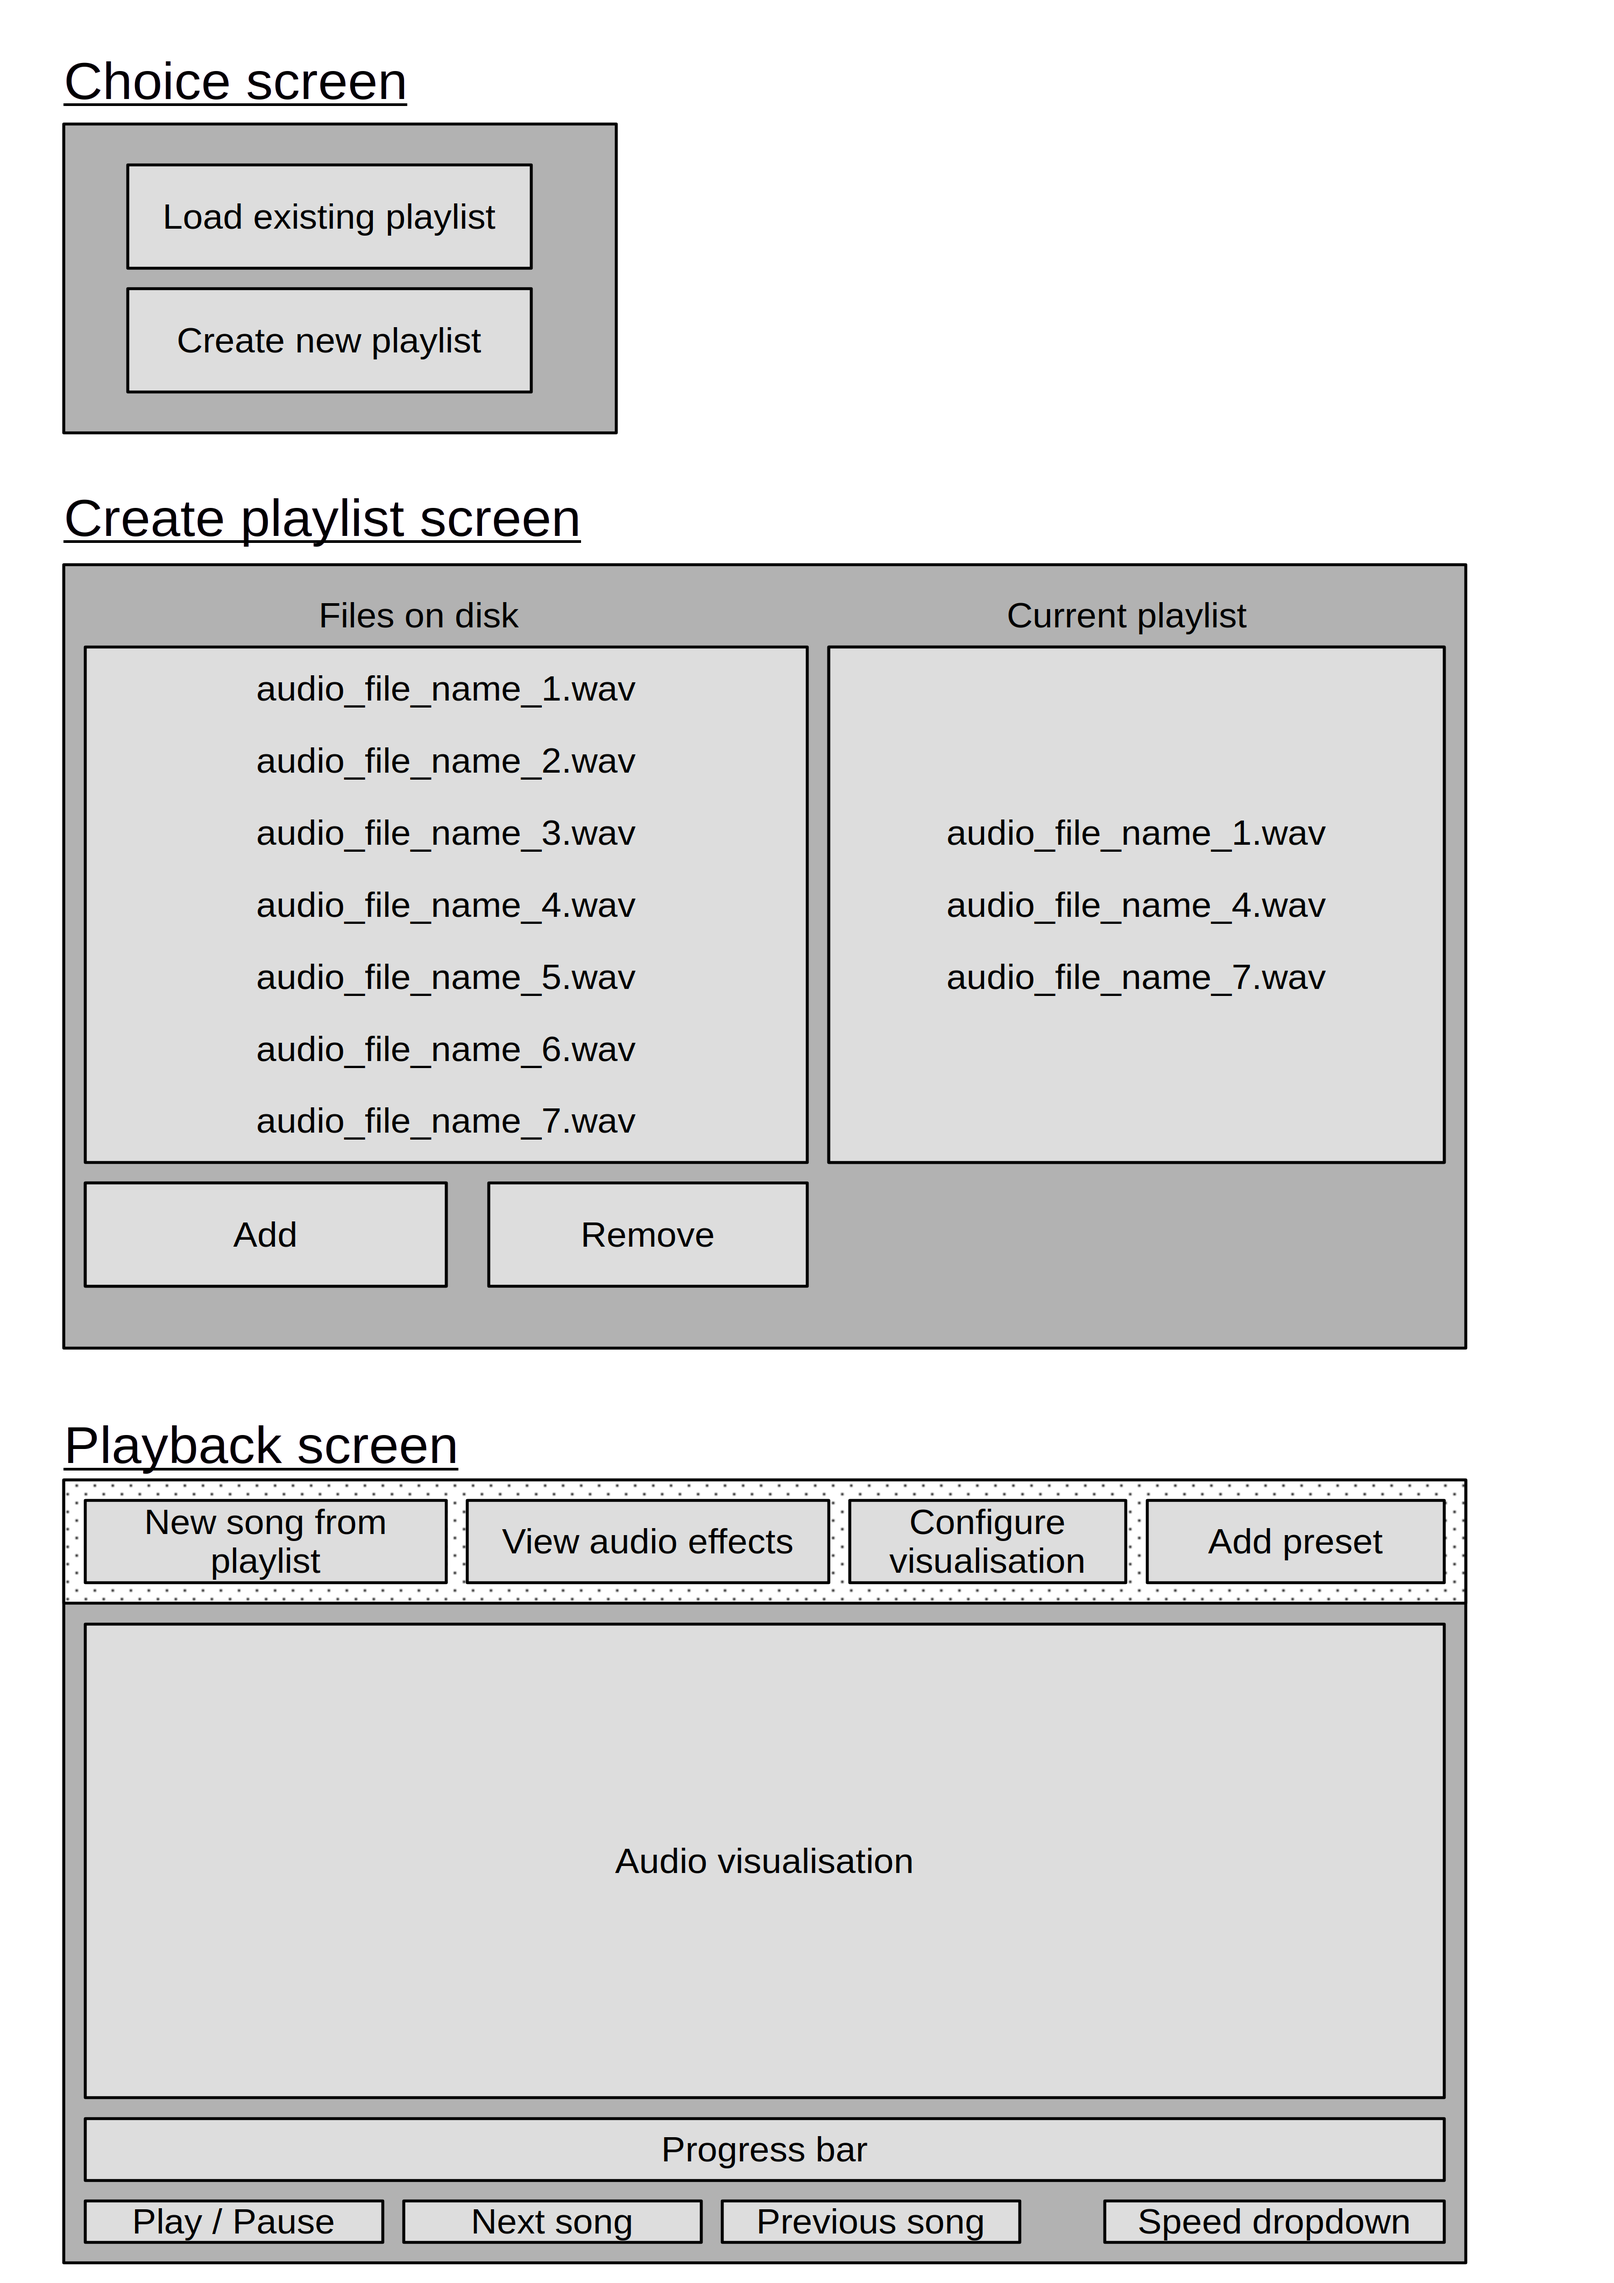
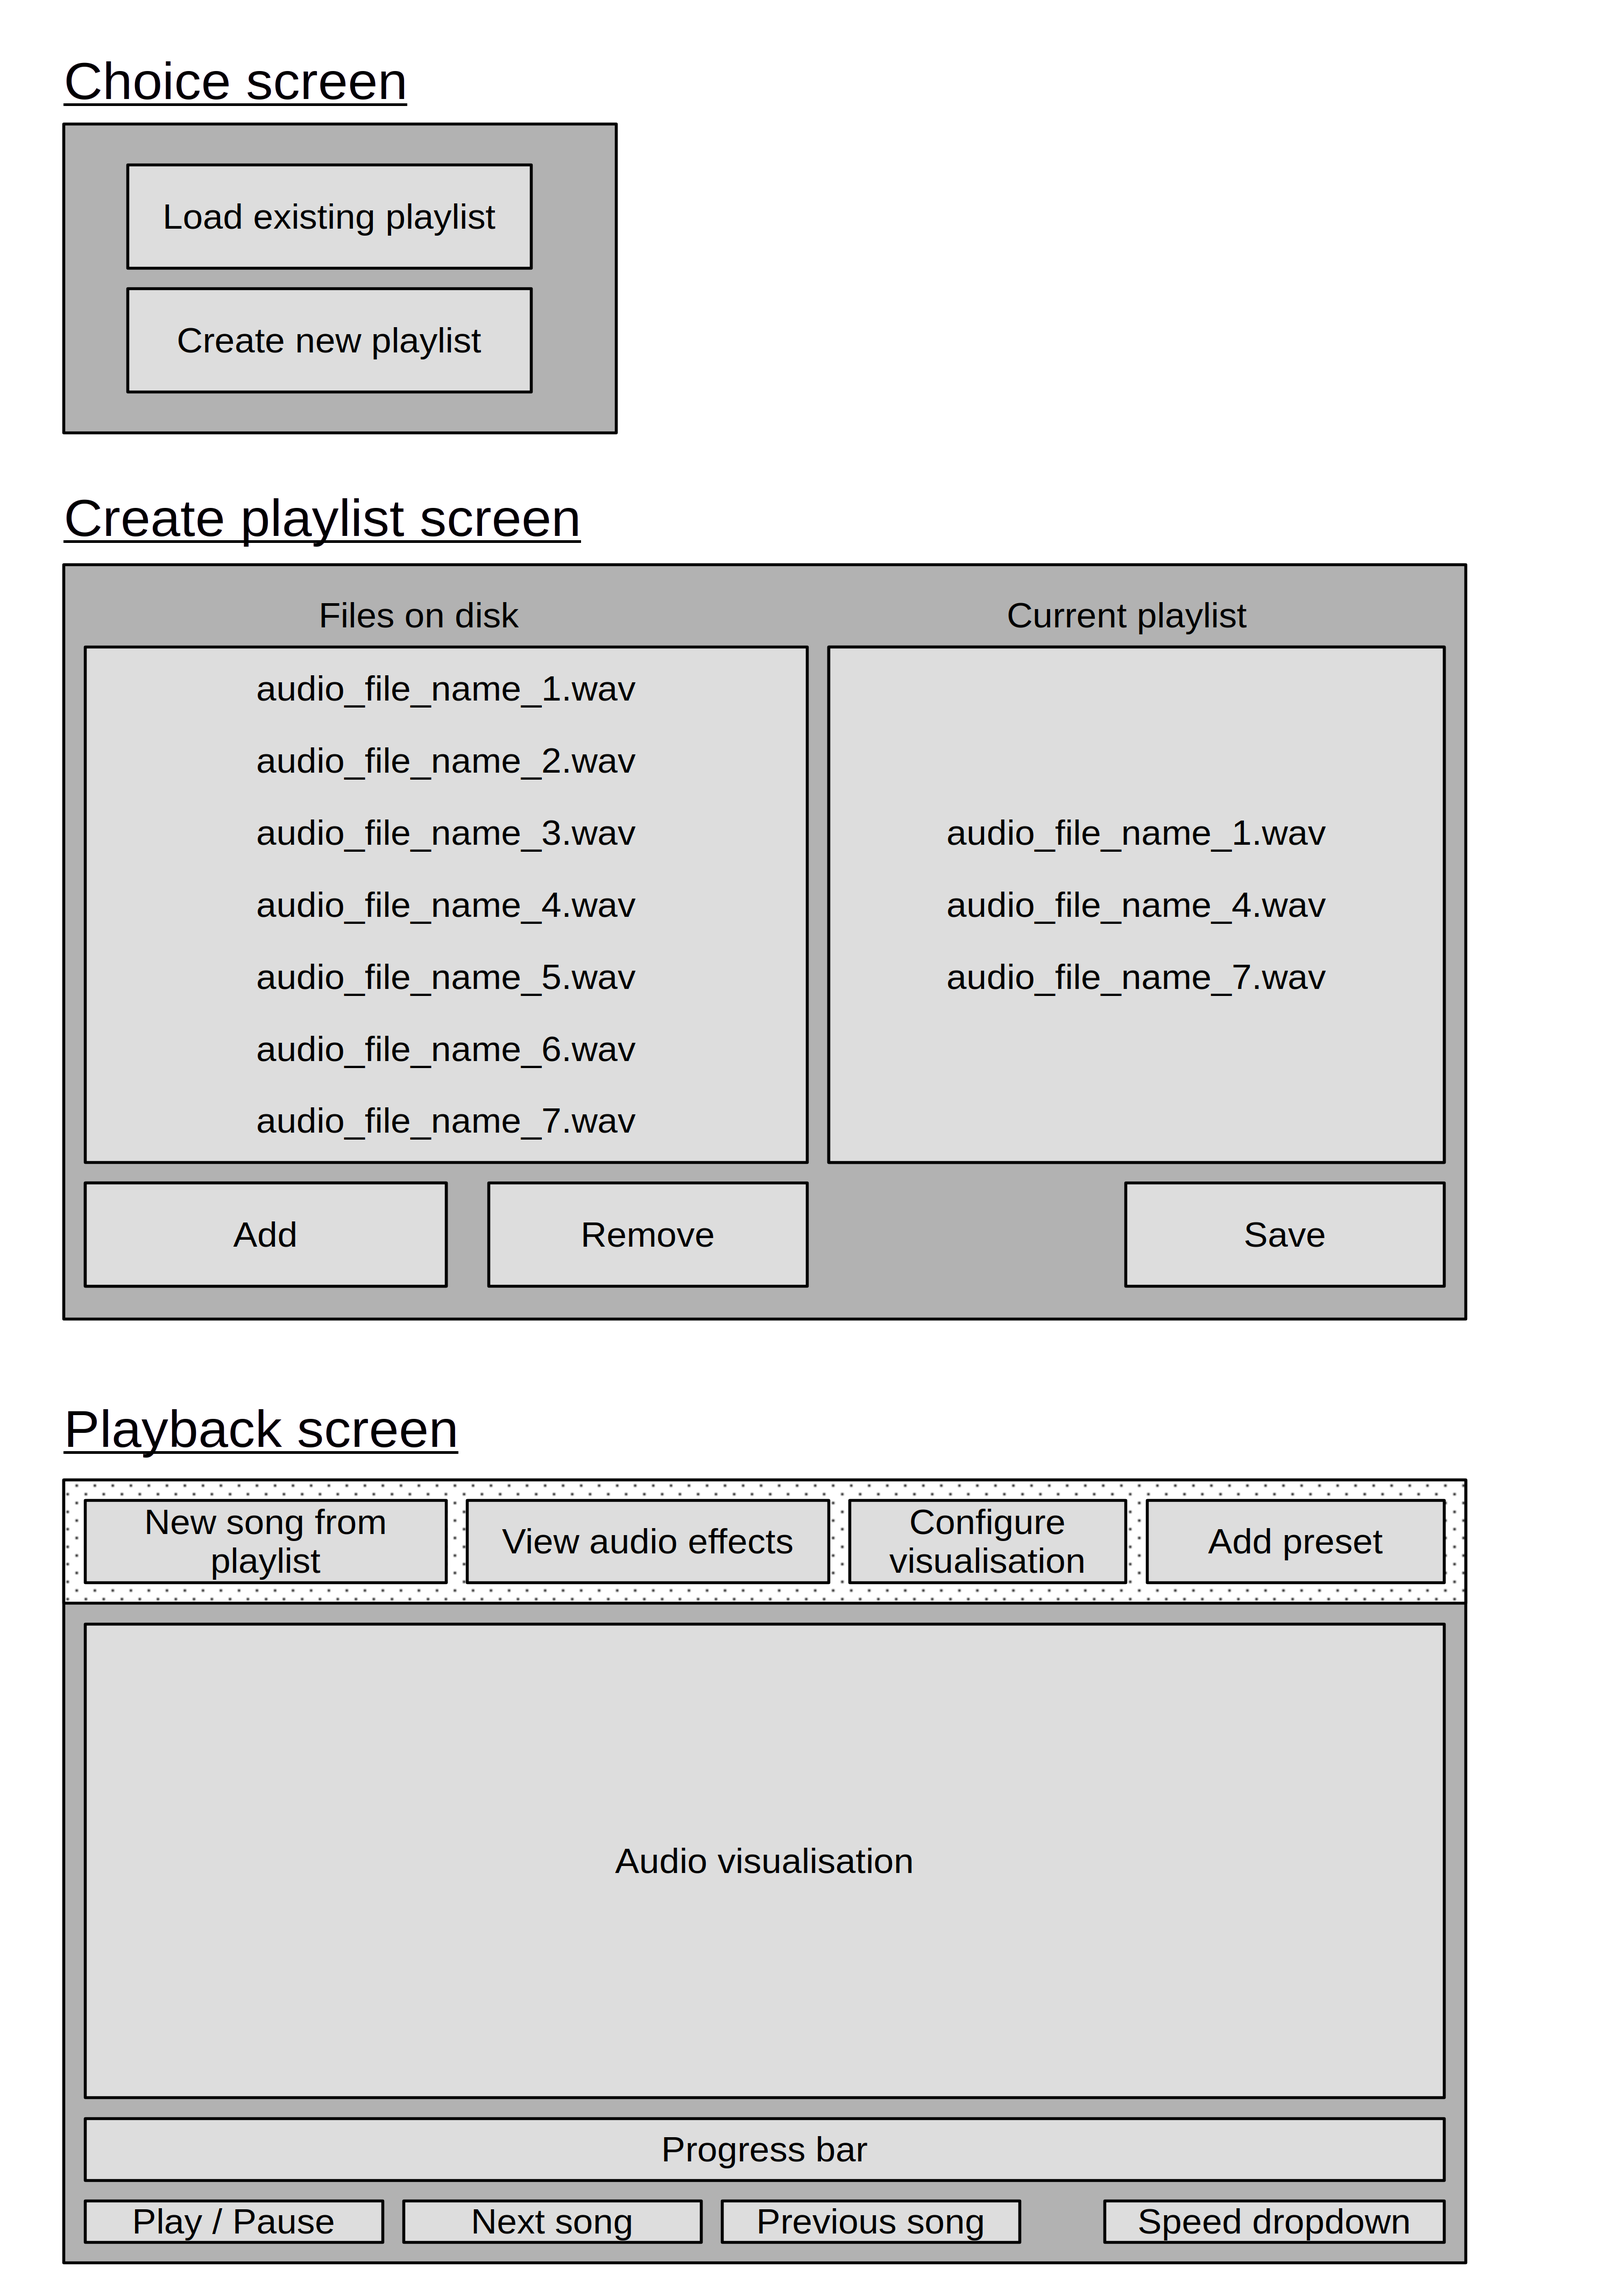
Tweaked GUI documentation

Changed region(s): [[0.031, 0.4978, 0.93, 0.5911], [0.031, 0.6222, 0.279, 0.6533]]

diff --git a/documentation/design.tex b/documentation/design.tex
@@ -237,6 +237,9 @@ The user will navigate through a variety of "screens" in order to use the progra
 	\item "Edit effect" screen
 \end{itemize}
 
+\paragraph{Popups}
+Minor tasks such as  selecting a new song from a playlist or modifying visualisation settings will be handled with popup dialogue menus.
+
 \begin{figure}[H]
 	\includegraphics[width=14cm]{gui flow}
 	\caption{GUI flow for program }
@@ -250,9 +253,21 @@ The user will navigate through a variety of "screens" in order to use the progra
 \end{figure}
 
 \begin{figure}[H]
-	\includegraphics[width=8cm]{gui wireframes two}
+	\includegraphics[width=14cm]{gui wireframes two}
 	\caption{GUI wireframes for ancillary windows }
 \end{figure}
+
+\subsubsection{Relation to the Code}
+As I am using "wxWidgets" (see above), all GUIs must be programmed directly in code. I have decided, therefore, to create the following classes to abstract away the details of the GUI:
+\begin{itemize}
+	\item StartupWindow - implements the initial "choice screen"
+	\item PlaylistWindow - implements the "create playlist screen"
+	\item FileBrowser - responsible for fetching and drawing the  list of audio files on the system (used by PlaylistWindow). This is abstracted away as "wxWidgets" does not provide a native "widget" for this, so I must create my own.
+	\item PlayWindow - implements the "playback screen"
+	\item EffectsWindow - implements the "effects list" screen
+	\item PropertiesWindow - implements the "edit effect" screen
+	\item SongSelectionWindow - draws the popup for when the user chooses to select a new song from the current playlist (abstracted as is non-trivial to implement)
+\end{itemize}
 
 \pagebreak
 \subsection{Final overview of project hierarchy}
